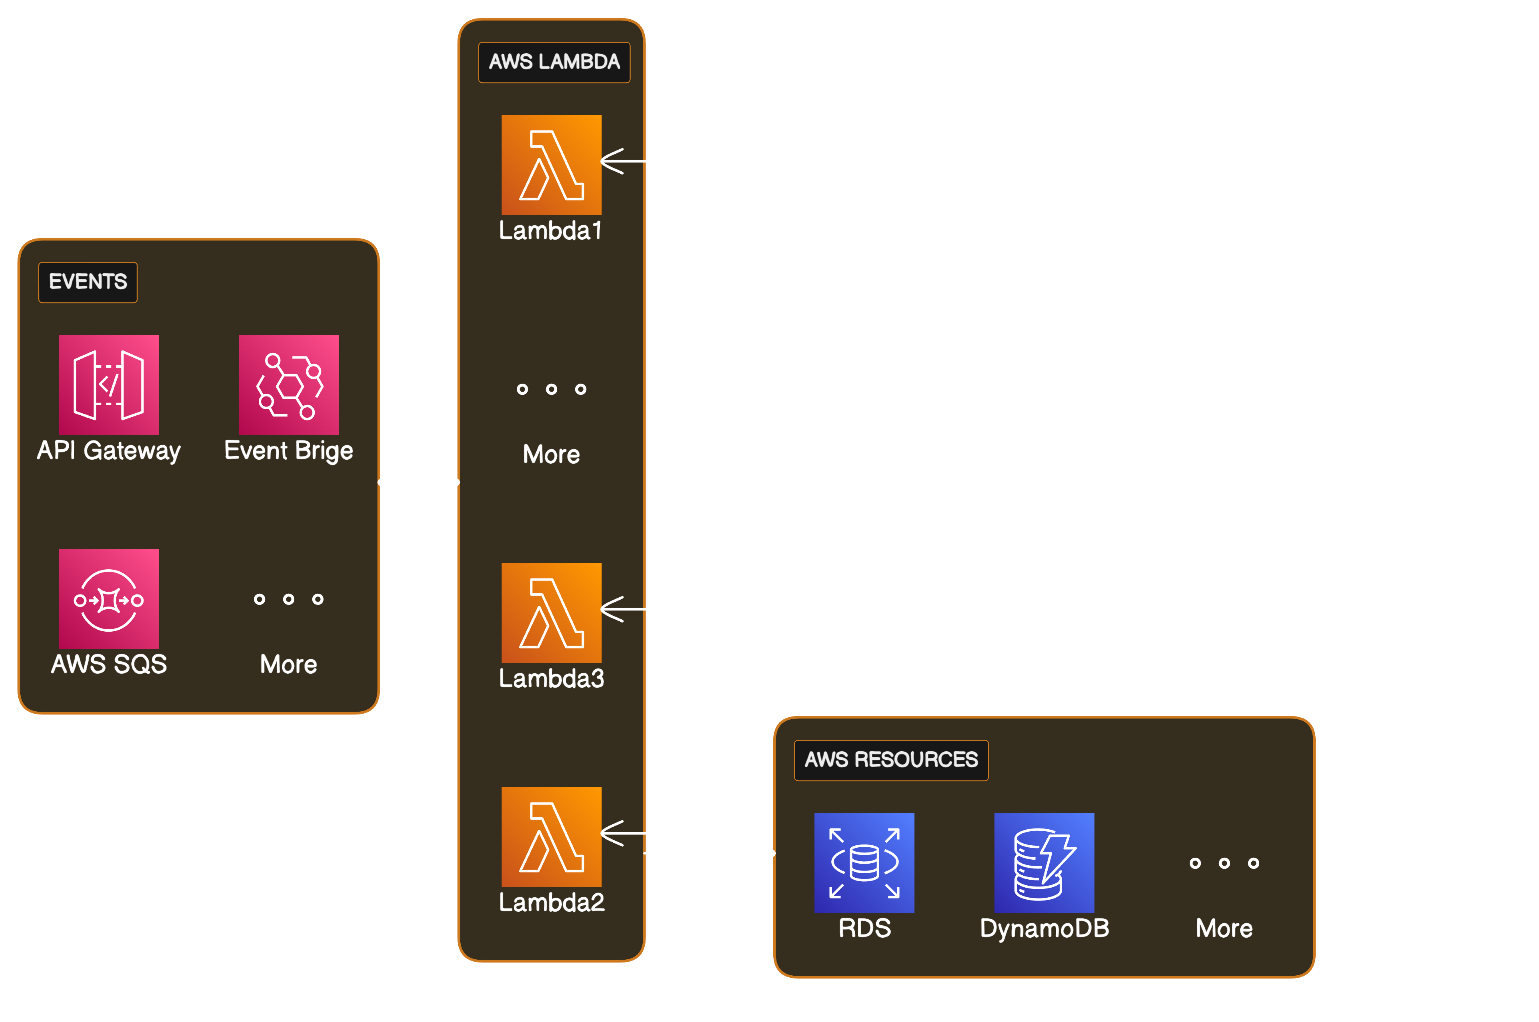
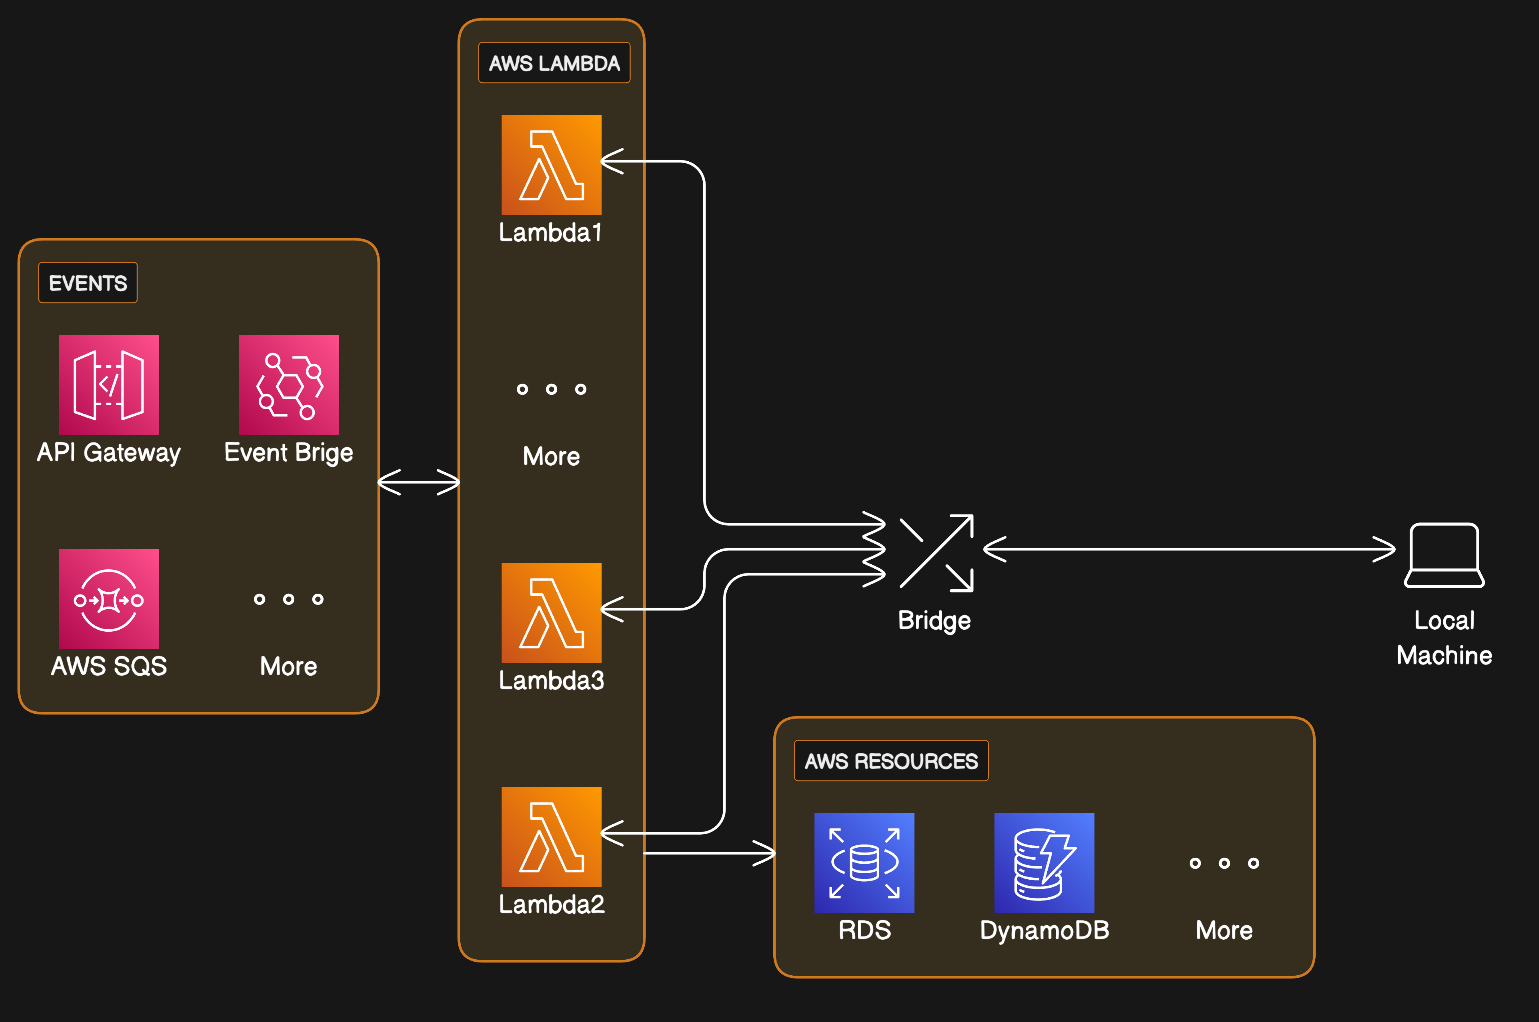
update README.md

diff --git a/README.md b/README.md
@@ -1,6 +1,8 @@
 # 🚀 Serverless Live Lambda
 
-![](./docs/img/arch.png)
+[![npm version](https://img.shields.io/npm/v/serverless-live-lambda.svg?style=flat)](https://www.npmjs.com/package/serverless-live-lambda)
+
+![](https://raw.githubusercontent.com/aboutkh/serverless-live-lambda/main/docs/img/arch.png)
 
 This Serverless plugin forwards the payload from Lambda to the local machine, supporting faster
 development cycles. Unlike `serverless-offline`, this plugin does not emulate the Lambda environment;
@@ -9,7 +11,9 @@ instead, it directly forwards the payload to the local machine.
 **Features:**
 
 - Supports Go λ runtimes. There are plans to support Node.js and Python soon.
+- Debug lambda function in local machine.
 - Hot reloads your handler files.
+- Load variables from .env files.
 
 This plugin is updated by its users; I handle maintenance and ensure that pull requests (PRs)
 are relevant to the community. In other words, if you find a bug or want a new feature,
@@ -78,6 +82,20 @@ the local environment:
 ```bash
 serverless start
 ```
+
+## Automatic ENV file resolution
+
+By default, the plugin looks for the file: `.env`. In most use cases, this is all that is needed.
+However, there are situations where you may require different environment files based on
+the specific environment, such as:
+
+```
+.env.dev
+.env.prod
+```
+
+The plugin automatically loads environment files based on the Serverless stage.
+If the `stage` is not set, it will default to development.
 
 ## Go Development
 
